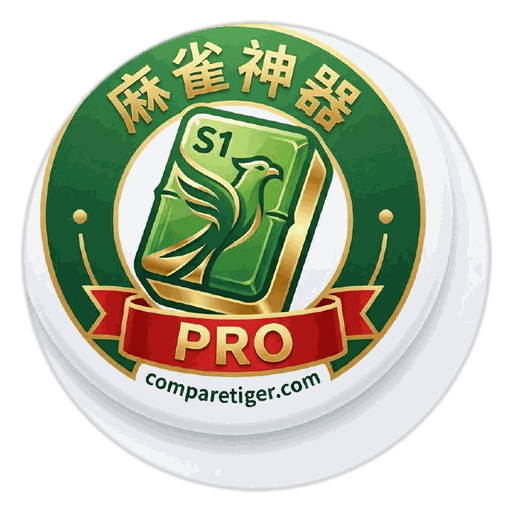
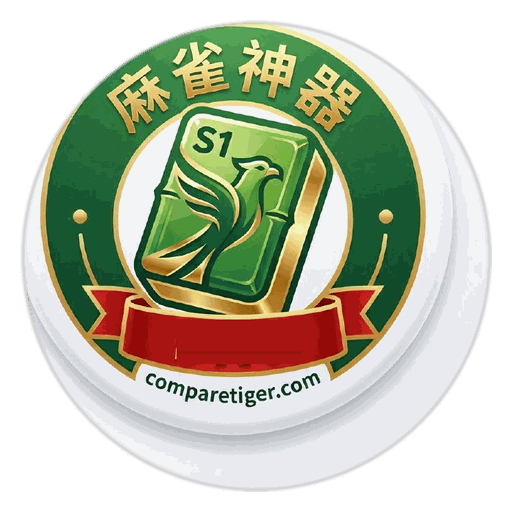
feat(branding): rename app to 麻雀神器 (drop PRO)
Store name, launcher label, PWA manifest, index.html title, privacy and
deletion pages, and the API/OpenAPI docs all now use 麻雀神器.

Branding assets:
- Source artwork recovered from the Hermes image cache
  (~/.hermes/cache/images/img_a4553ced575b.jpg, 800x800 emblem;
  img_ceffe4ee53c3.jpg, 714x1280 promo).
- The emblem's red ribbon had 'PRO' embossed in cream/gold. Removed it
  surgically: sampled the ribbon's own flat red per row and filled the
  word box (x318-500, y548-612). Verified 0 non-ribbon pixels remain in
  that rect and 0 pixels changed outside it.
- Launcher icons, splash screens, Play Store feature graphic, screenshots
  and the 512 store icon regenerated from the clean emblem + original promo.
- Removed the 'PRO' badge from the Play Store screenshots.

Android: minSdk 22->24 (Play automatic protection requires >=24),
targetSdk 35->36 (Play requires >=36 from Aug 31 2026), versionCode 3.

Play upload script: the resumable PUT needs the Authorization header too,
otherwise Play returns a bare 403 with no body. Also print the body.

Changed region(s): [[0.3438, 0.625, 0.5938, 0.7188]]

diff --git a/docs/mahjong-privacy.html b/docs/mahjong-privacy.html
@@ -3,8 +3,8 @@
 <head>
 <meta charset="UTF-8">
 <meta name="viewport" content="width=device-width, initial-scale=1.0">
-<title>私隱政策 — 麻雀神器 PRO</title>
-<meta name="description" content="麻雀神器 PRO Android App 私隱政策。講清楚我哋收集咩資料、用嚟做咩、點樣保障你，同點樣要求刪除你嘅資料。">
+<title>私隱政策 — 麻雀神器</title>
+<meta name="description" content="麻雀神器 Android App 私隱政策。講清楚我哋收集咩資料、用嚟做咩、點樣保障你，同點樣要求刪除你嘅資料。">
 <meta name="robots" content="index,follow">
 <link rel="canonical" href="https://comparetiger.com/mahjong-privacy.html">
 <style>
@@ -74,11 +74,11 @@
 
   <div class="hero">
     <span class="badge">Android App 私隱政策</span>
-    <h1>麻雀神器 PRO 私隱政策</h1>
+    <h1>麻雀神器 私隱政策</h1>
     <p>最後更新：2026 年 10 月 24 日 · 適用版本：1.0</p>
   </div>
 
-  <p>麻雀神器 PRO（以下簡稱「本 App」）由 Comparetiger 開發及營運。本政策用廣東話講清楚我哋點樣處理你嘅資料。</p>
+  <p>麻雀神器（以下簡稱「本 App」）由 Comparetiger 開發及營運。本政策用廣東話講清楚我哋點樣處理你嘅資料。</p>
 
   <div class="callout">
     <strong>一句話總結：</strong>你用 AI 認牌嗰陣會傳牌相去我哋伺服器做識別，識別完會記低一次使用紀錄。除此之外我哋唔會收集你啲牌相，亦唔會賣畀任何人。
@@ -207,7 +207,7 @@
   </div>
 
   <footer>
-    <p>麻雀神器 PRO · Comparetiger · 私隱政策</p>
+    <p>麻雀神器 · Comparetiger · 私隱政策</p>
     <p>本政策符合香港《個人資料（私隱）條例》（第 486 章）嘅六大保障資料原則。</p>
   </footer>
 

diff --git a/docs/mahjong-delete-account.html b/docs/mahjong-delete-account.html
@@ -3,8 +3,8 @@
 <head>
 <meta charset="UTF-8">
 <meta name="viewport" content="width=device-width, initial-scale=1.0">
-<title>刪除帳戶 — 麻雀神器 PRO</title>
-<meta name="description" content="要求刪除麻雀神器 PRO 帳戶及相關個人資料。填表提交後，我哋會喺 30 日內完成處理。">
+<title>刪除帳戶 — 麻雀神器</title>
+<meta name="description" content="要求刪除麻雀神器 帳戶及相關個人資料。填表提交後，我哋會喺 30 日內完成處理。">
 <meta name="robots" content="index,follow">
 <link rel="canonical" href="https://comparetiger.com/mahjong-delete-account.html">
 <style>
@@ -48,10 +48,10 @@
 
   <div class="hero">
     <h1>刪除帳戶</h1>
-    <p>麻雀神器 PRO · Comparetiger</p>
+    <p>麻雀神器 · Comparetiger</p>
   </div>
 
-  <p>如果你想刪除你喺麻雀神器 PRO 嘅帳戶，或者刪除我哋持有嘅你嘅個人資料，填下面個表就得。唔使登入都可以提交。</p>
+  <p>如果你想刪除你喺麻雀神器 嘅帳戶，或者刪除我哋持有嘅你嘅個人資料，填下面個表就得。唔使登入都可以提交。</p>
 
   <div class="callout">
     <strong>如果你只係想清除 App 內嘅對局紀錄</strong>，唔使填表：打開 App →「設定」→「重設遊戲數據」即刻清走。
@@ -132,7 +132,7 @@
   </ul>
 
   <footer>
-    <p>麻雀神器 PRO · Comparetiger</p>
+    <p>麻雀神器 · Comparetiger</p>
     <p>私隱政策：<a href="https://comparetiger.com/mahjong-privacy.html">comparetiger.com/mahjong-privacy.html</a></p>
     <p>處理個人資料依據香港《個人資料（私隱）條例》（第 486 章）。</p>
   </footer>

diff --git a/index.html b/index.html
@@ -9,12 +9,12 @@
     <meta name="theme-color" content="#064e3b" />
     <meta name="apple-mobile-web-app-capable" content="yes" />
     <meta name="apple-mobile-web-app-status-bar-style" content="black-translucent" />
-    <meta name="apple-mobile-web-app-title" content="麻雀神器 PRO" />
+    <meta name="apple-mobile-web-app-title" content="麻雀神器" />
     <link rel="icon" type="image/png" sizes="32x32" href="/favicon.png" />
     <link rel="icon" type="image/png" sizes="192x192" href="/icon-192.png" />
     <link rel="apple-touch-icon" href="/icon-192.png" />
     <link rel="manifest" href="/manifest.webmanifest" />
-    <title>🐴 麻雀神器 PRO</title>
+    <title>🐴 麻雀神器</title>
     <!-- Tailwind + custom CSS bundled by Vite (see src/index.css) -->
     <!-- Google AdSense -->
     <script

diff --git a/capacitor.config.ts b/capacitor.config.ts
@@ -2,7 +2,7 @@ import type { CapacitorConfig } from '@capacitor/cli'
 
 const config: CapacitorConfig = {
   appId: 'com.comparetiger.mahjongscoreboard',
-  appName: '麻雀神器 PRO',
+  appName: '麻雀神器',
   webDir: 'dist',
   server: {
     androidScheme: 'https', // Required for Capacitor 6 — see capacitor-wrap-web-app skill

diff --git a/scripts/generate_splash_and_store_assets.py b/scripts/generate_splash_and_store_assets.py
@@ -1,6 +1,6 @@
 #!/usr/bin/env python3
 """
-generate_splash_and_store_assets.py — install the 麻雀神器 PRO promo graphic
+generate_splash_and_store_assets.py — install the 麻雀神器 promo graphic
 as the Android launch splash, and derive the Play Store listing assets.
 
 Inputs:
@@ -125,7 +125,7 @@ def make_feature_graphic(icon_badge: Image.Image) -> Image.Image:
     sub_font = load_font(34)
     slogan_font = load_font(40)
     x = 440
-    draw.text((x, 150), "麻雀神器 PRO", font=title_font, fill=(255, 255, 255))
+    draw.text((x, 150), "麻雀神器", font=title_font, fill=(255, 255, 255))
     draw.text((x, 246), "AI 拍牌識別 · 自動計分 · 對局統計", font=sub_font, fill=(253, 230, 138))
     draw.text((x, 320), "運籌帷幄，決勝千里", font=slogan_font, fill=(255, 255, 255))
     draw.text((x, 396), "comparetiger.com", font=load_font(28), fill=(148, 163, 184))
@@ -153,11 +153,6 @@ def make_screenshot(promo: Image.Image, caption: str, subcaption: str, index: in
     draw.rectangle([(0, promo_h), (W, H)], fill=BRAND_BG)
     draw.text((80, promo_h + 90), caption, font=load_font(72), fill=(255, 255, 255))
     draw.text((80, promo_h + 190), subcaption, font=load_font(38), fill=(253, 230, 138))
-    # Small PRO badge
-    draw.rounded_rectangle(
-        [(80, promo_h + 270), (240, promo_h + 340)], radius=35, fill=(220, 38, 38)
-    )
-    draw.text((110, promo_h + 282), "PRO", font=load_font(38), fill=(255, 255, 255))
     return canvas
 
 

diff --git a/scripts/play-upload-aab.py b/scripts/play-upload-aab.py
@@ -5,7 +5,7 @@ Mahjong Scoreboard — upload signed AAB to Google Play Internal Testing.
 Prerequisites (do these ONCE in Play Console browser):
   1. Sign in to https://play.google.com/console with the developer account
   2. Create app:
-       - App name: 麻雀神器 PRO
+       - App name: 麻雀神器
        - Default language: Chinese (Traditional, Hong Kong)
        - App or Game: App
        - Free or Paid: Free
@@ -92,11 +92,18 @@ def main():
 
     with open(AAB_PATH, "rb") as f:
         aab_bytes = f.read()
+    # NOTE: the resumable upload URL is a GCS session URI — it needs the
+    # Bearer token too, otherwise Play returns an opaque HTTP 403.
     req = urllib.request.Request(upload_url, method="PUT", data=aab_bytes, headers={
+        "Authorization": f"Bearer {token}",
         "Content-Type": "application/octet-stream",
         "Content-Length": str(len(aab_bytes)),
     })
-    bundle = json.loads(urllib.request.urlopen(req, timeout=300).read())
+    try:
+        bundle = json.loads(urllib.request.urlopen(req, timeout=300).read())
+    except urllib.error.HTTPError as e:
+        sys.stderr.write(f"  HTTP {e.code}: {e.read().decode()}\n")
+        raise
     version_code = bundle["versionCode"]
     print(f"  ✓ bundle uploaded — versionCode = {version_code}")
 

diff --git a/scripts/generate_android_icons.py b/scripts/generate_android_icons.py
@@ -1,6 +1,6 @@
 #!/usr/bin/env python3
 """
-generate_android_icons.py — install the 麻雀神器 PRO brand emblem as the
+generate_android_icons.py — install the 麻雀神器 brand emblem as the
 Android launcher icon + splash screen.
 
 The source emblem is a circular badge on a pale background (no alpha).

diff --git a/docs/PLAY_STORE_LISTING.md b/docs/PLAY_STORE_LISTING.md
@@ -1,4 +1,4 @@
-# Play Store Listing — 麻雀神器 PRO
+# Play Store Listing — 麻雀神器
 
 Copy-paste text for the Google Play Console listing.
 Package: `com.comparetiger.mahjongscoreboard` · Version: 1.0 (versionCode 1)
@@ -8,7 +8,7 @@ Package: `com.comparetiger.mahjongscoreboard` · Version: 1.0 (versionCode 1)
 ## App name (30 char limit)
 
 ```
-麻雀神器 PRO
+麻雀神器
 ```
 
 ---
@@ -55,9 +55,9 @@ Checked against the actual source on 2026-10-24:
 ## Full description (4000 char limit)
 
 ```
-麻雀神器 PRO — 廣東麻雀計分必備 App
+麻雀神器 — 廣東麻雀計分必備 App
 
-打牌唔使再數隻，影相就得。麻雀神器 PRO 用 AI 直接睇牌、認牌、計分，
+打牌唔使再數隻，影相就得。麻雀神器 用 AI 直接睇牌、認牌、計分，
 一枱開工，埋單準又快。
 
 ◆ AI 拍牌識別
@@ -82,13 +82,21 @@ Checked against the actual source on 2026-10-24:
 
 ---
 
+◆ 私隱
+你嘅牌相會用嚟做 AI 識別，識別完之後喺伺服器記錄一次
+（你嘅使用時間、識別結果、機型型號），用嚟統計同除錯。
+唔會公開你嘅相片，亦唔會攞嚟賣廣告。
+想刪資料可以喺 App 內 或者 電郵我哋。
+
+---
+
 適合：
 • 雀友聚會，唔想手抄
 • 熟客，想知自己進步咗幾多
 • 唔熟悉規則，想有個自動計分幫手
 • 任何想快啲開枱、快啲埋單嘅人
 
-免費下載，PRO 版本解鎖 AI 識別同進階統計。
+免費下載，AI 識別同對局統計全部包括在內。
 
 免責聲明：本 App 只作計分輔助，雀枱爭議請以實體牌局為準。
 ```

diff --git a/README.md b/README.md
@@ -1,4 +1,4 @@
-# 麻雀神器 PRO — AI 拍照識別、付費會員、廣告收益
+# 麻雀神器 — AI 拍照識別、付費會員、廣告收益
 
 `comparetiger.com/mahjong.html` 入面 embed 嘅 Capacitor + React app。
 AI 自動識別麻雀牌面、本地計番、Google Play 訂閱、AdMob banner。
